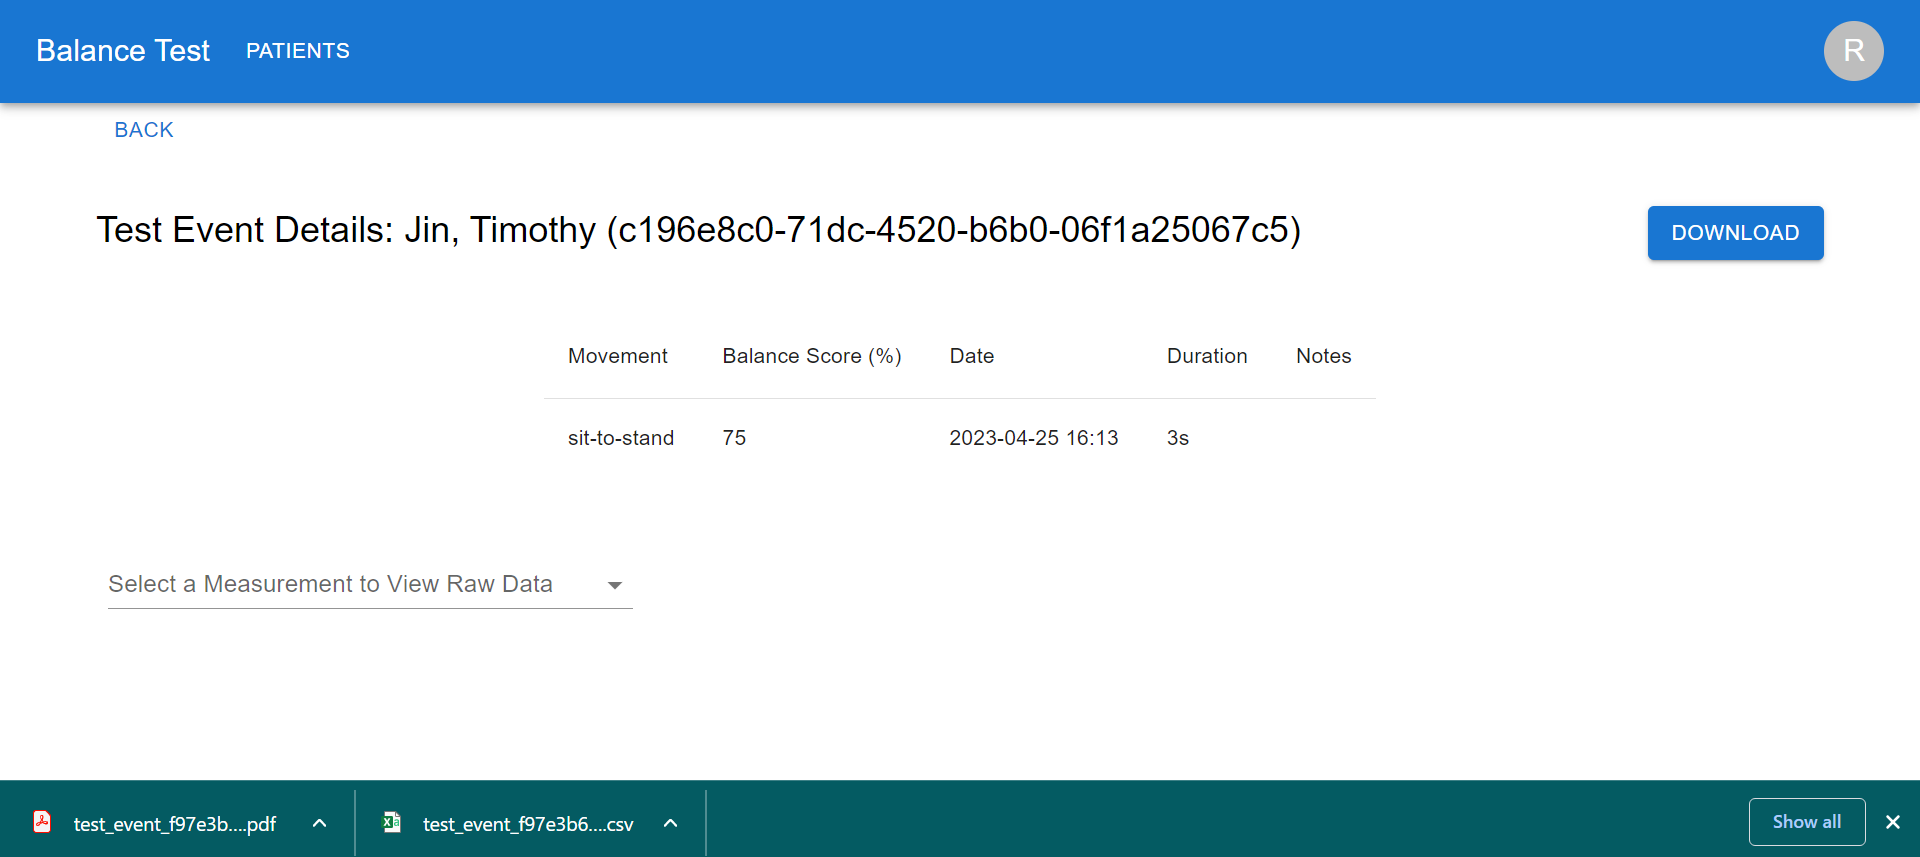
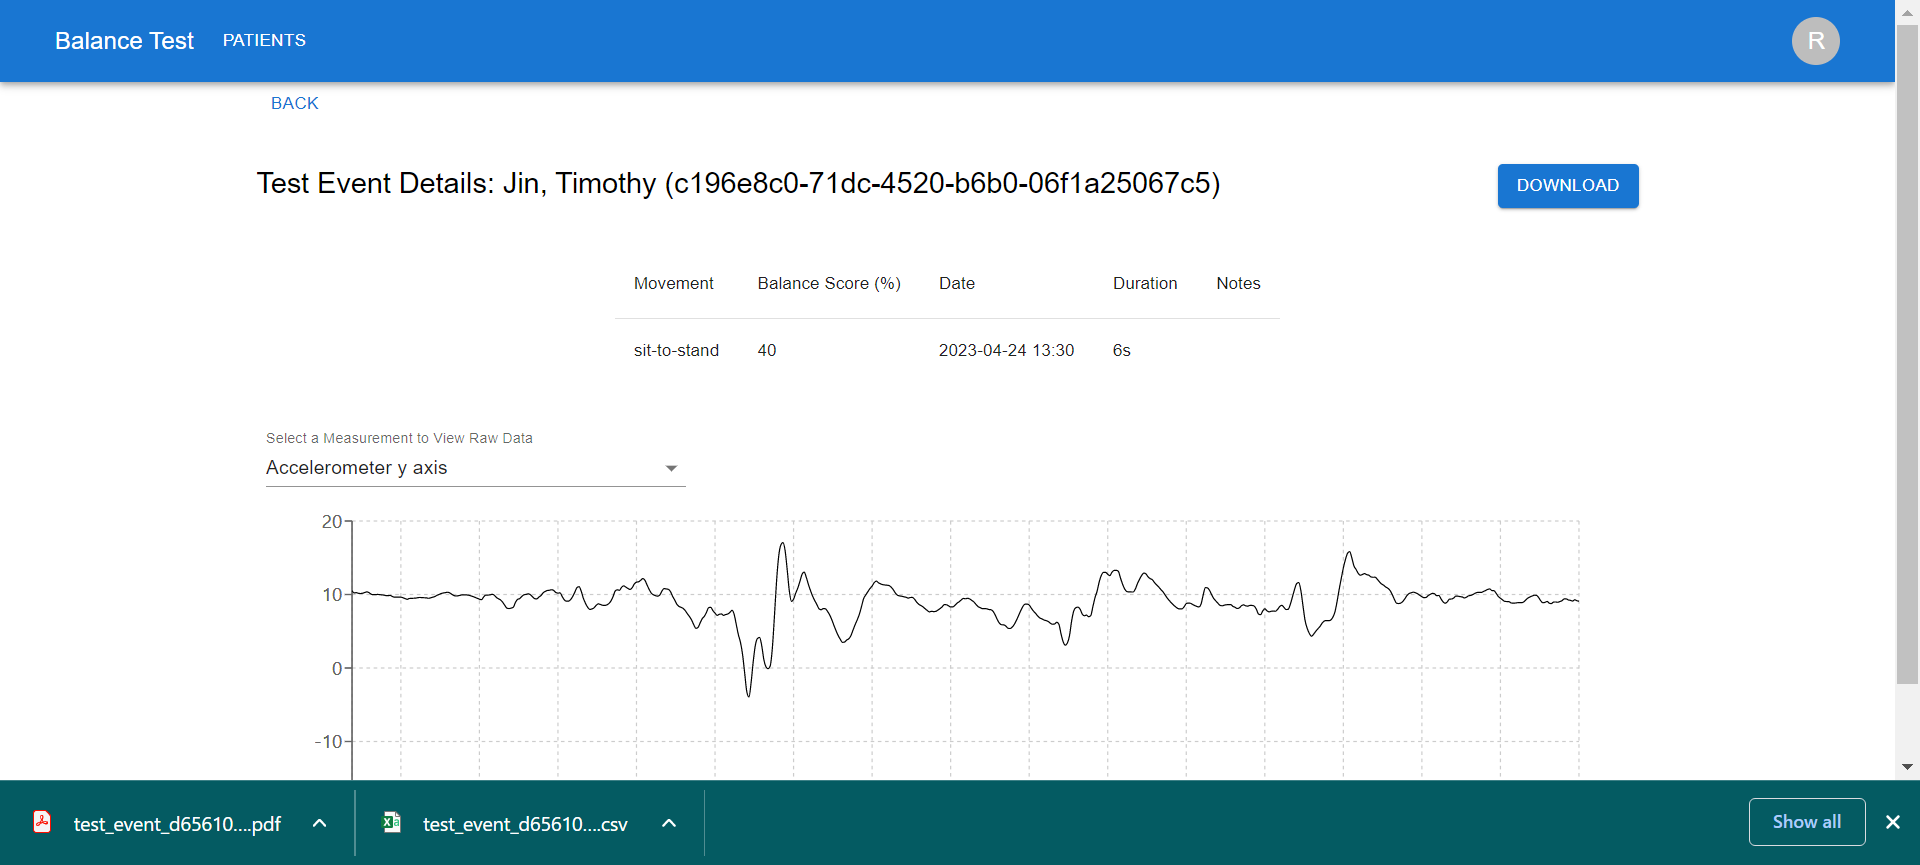
User guide edits

diff --git a/docs/UserGuide.md b/docs/UserGuide.md
@@ -7,7 +7,7 @@
 | Index                                                                                        | Description                                               |
 |:---------------------------------------------------------------------------------------------|:----------------------------------------------------------| 
 | [Sign In](#Sign-In)          | Sign in to a care provider account              |
-| [Dashboard Home](#Dashboard-Home)                                                            | How to see all patients overview                            |
+| [Home](Home)                                                            | How to see all patients overview                            |
 | [Patient Details](#Patient-Details)                                                                    | See details for a patient                                         |
 | [Test Event Details](#Test-Event-Details)  | See details for a test event                        |
 | [Add User to CareProvider Group](#Add-User-to-CareProvider-Group)  | Grant user permission to the dashboard                        |
@@ -15,22 +15,19 @@
 
 ## Sign In Or Create An Account
 
+First, either sign in or create an account.
+![alt text](./images/user_guide/signin.PNG)
+
 You can create an account using your email address. Enter your preferred password, confirm password, then enter your first and last name.
 ![alt text](./images/user_guide/signup.PNG)
 
-
-After deploying both the frontend and backend stacks, you will see this login page after clicking the generated Amplify link. 
-![alt text](./images/user_guide/signin.PNG)
-
-
-After filling out the information, click on the "Sign In" button. 
-
-Note: right after you create an account or if you created an account not too long ago, you may see the error below. In this case, ask your admin to give you permissions by following the #Test-Event-Details section
+Note: right after you create an account or if you created an account not too long ago, you may see the error below. In this case, ask your admin to give you permissions by following the [Add User to CareProvider Group](#Add-User-to-CareProvider-Group) section
+![alt text](./images/user_guide/access_denied.PNG)
 
 
-HOME
+## HOME
 
-The home page only displays the list of patients assigned to you. 
+The home page displays the list of patients assigned to you. 
 ![alt text](./images/user_guide/home.PNG)
 
 
@@ -49,19 +46,12 @@ To add patients, click on the ‘Add Patient’ button. This will open a pop-up 
 Clicking on the ‘Manually Add New Patient’ will open a pop up that requires you to fill out their first and last name. To add the patient, click on ‘Add New Patient’.
 ![alt text](./images/user_guide/add_manual_patient.PNG)
 
-To add patients that are registered in the database, type their name on the Patient Name search box. Clicking on the ‘arrow’ symbol will also open a drop down menu with the patients’ names and IDs. 
+To add patients that are registered in the database, type their name on the Patient Name search box. Clicking on the ‘arrow’ symbol will also open a drop down menu with the patients’ names and IDs. Click on the patient you want to add, and click ‘Add Selected Patient’.
 ![alt text](./images/user_guide/search_patients.PNG)
-Click on the patient you want to add, and click ‘Add Selected Patient’.
-![alt text](./images/user_guide/add_manual_patient.PNG)
 
 
-To assign a test to the patient, click on the ‘Manage’ button.
-<!-- ![alt text](./images/user_guide/) -->
-
-
-
-To select the movement you want to assign, click the checkbox next to the movement name and click ‘Save’.
-[assign test 02]
+To assign a test to the patient, click on the ‘Manage’ button, then select the movement you want to assign, click the checkbox next to the movement name and click ‘Save’.
+![alt text](./images/user_guide/assign_test.PNG)
 
 
 ## Patient Details
@@ -78,41 +68,38 @@ If you scroll down, you can view the patient's measurement range over time. Clic
 
 
 The IMU data range graph displays the raw IMU data that was sent from the mobile app. It displays the range between the maximum and minimum values for each sensor component and each axis, such as accelerometer x-axis values, accelerometer y-axis values, and accelerometer z-axis values.
-![alt text](./images/user_guide/score_and_range_graphs.PNG)
 
 The y-axis of the IMU range graph represents the values for each sensor component:
 accelerometer displays acceleration, gyroscope displays angular velocity, magnetometer displays magnetic field values. The x-axis of the range graph represents the date and time of the recordings
-![alt text](./images/user_guide/range_graph.PNG)
 
 
 To download the IMU range graph, click on the ‘hamburger’ button on the right hand side. You can choose to download the graph as a single SVG, PNG, or CSV file.
-[range graph download]
-
-
-
-
-
+![alt text](./images/user_guide/range_graph_download.PNG)
 
 
 The patient data page also shows the patient’s past test events, including their balance score, the type of movement, date when it was completed, and any notes saved. 
 ![alt text](./images/user_guide/events_table.PNG)
 
-To 
 
 To delete a past test event, click on the checkbox beside the test you would like to delete and click on the ‘Delete’ button.
-[delete test 01]
+![alt text](./images/user_guide/delete_testevent.PNG)
 
 
 
 Clicking on the ‘Delete’ button will open a pop-up to confirm your choice.
-[delete test 02]
+![alt text](./images/user_guide/confirm_delete.PNG)
 
 ## Test Details
 
 To view a test event in the test event table. Click the test in the table and it will take you to the following page. It shows you the name of the patient, the test type, balance score, timestamp, and any notes left by the doctor or patient:
 ![alt text](./images/user_guide/test_event_details.PNG)
 
-If you wish to save this information, click download. It will download the raw recordings as a csv, and the full details as a pdf file:
+Click on the "Select a measurement to view raw data" to select a measurement to view graph for from the drop-down:
+![alt text](./images/user_guide/measurement_select.PNG)
+![alt text](./images/user_guide/9_measurements.PNG)
+
+
+If you wish to save the test details information, click download. It will download the raw recordings as a csv, and the full details as a pdf file:
 ![alt text](./images/user_guide/browser_download.PNG)
 
 Below show the content of the files downloaded:
